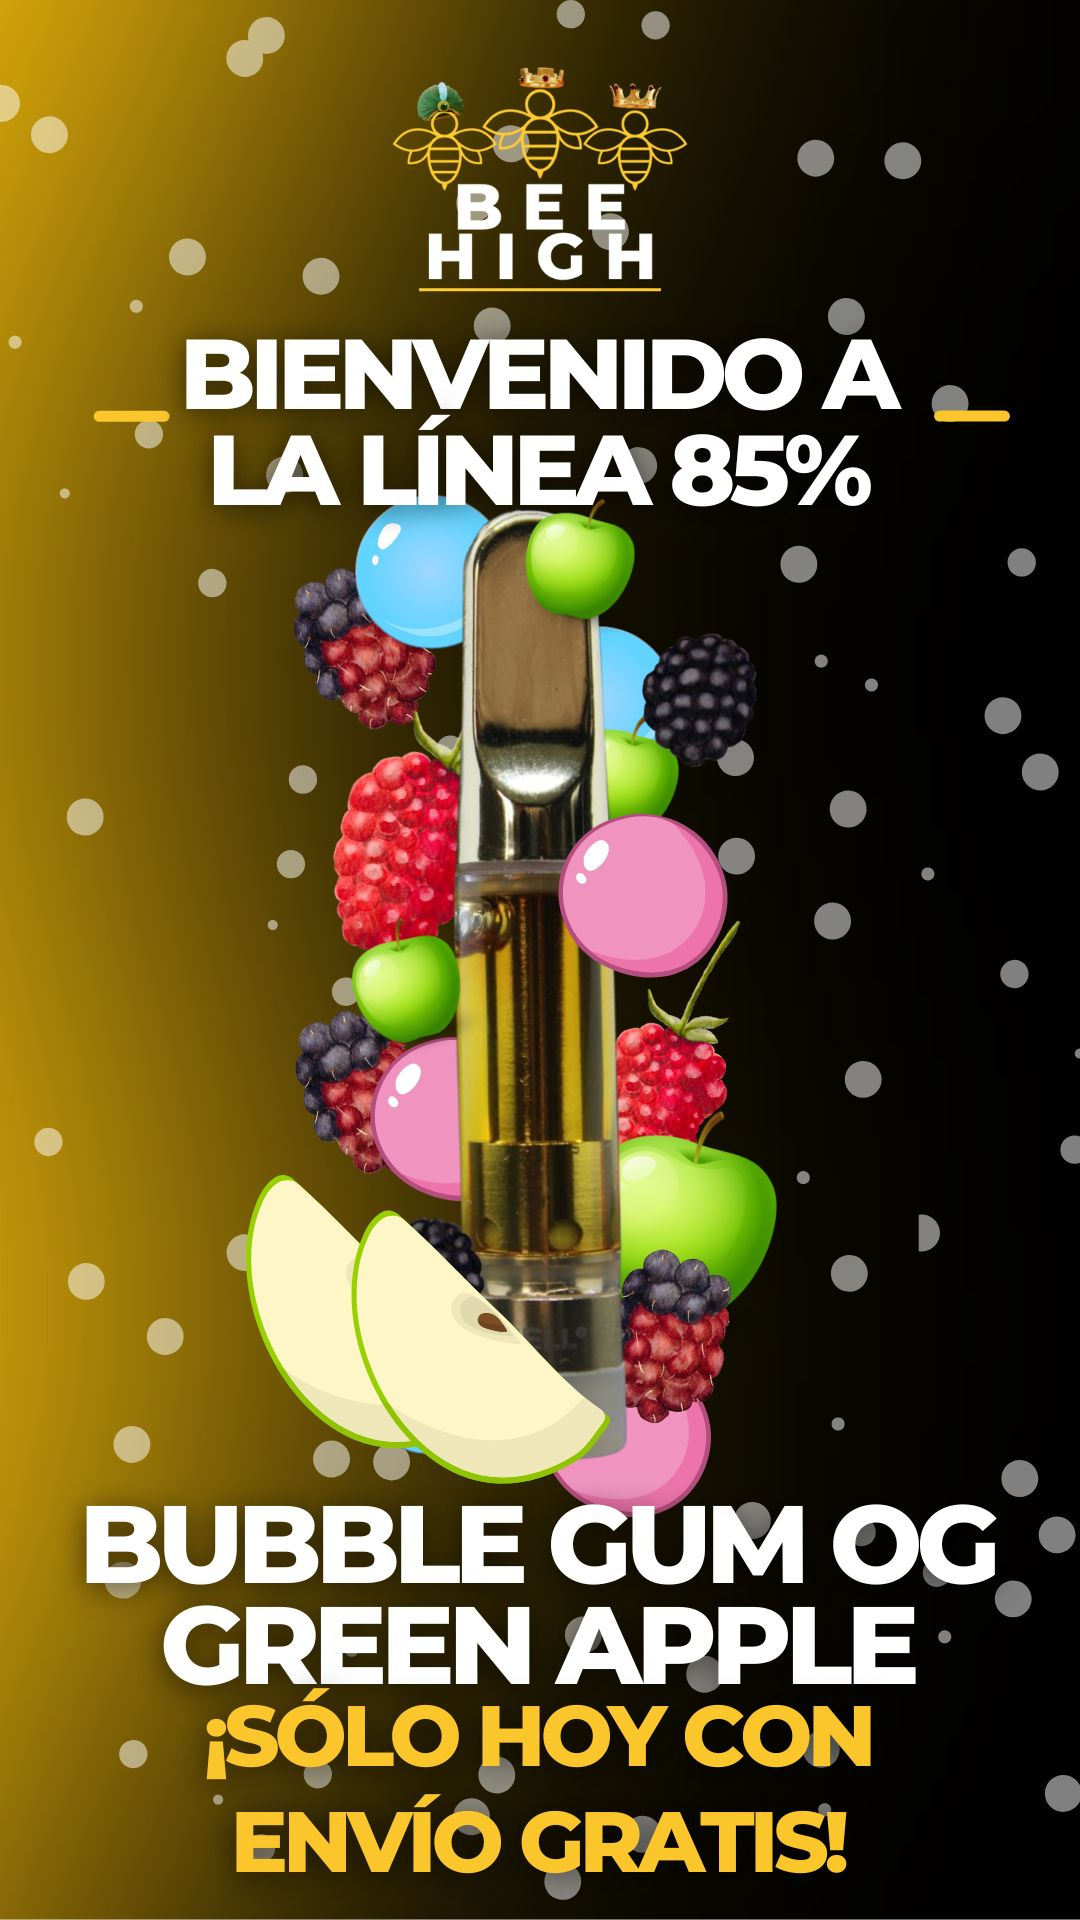
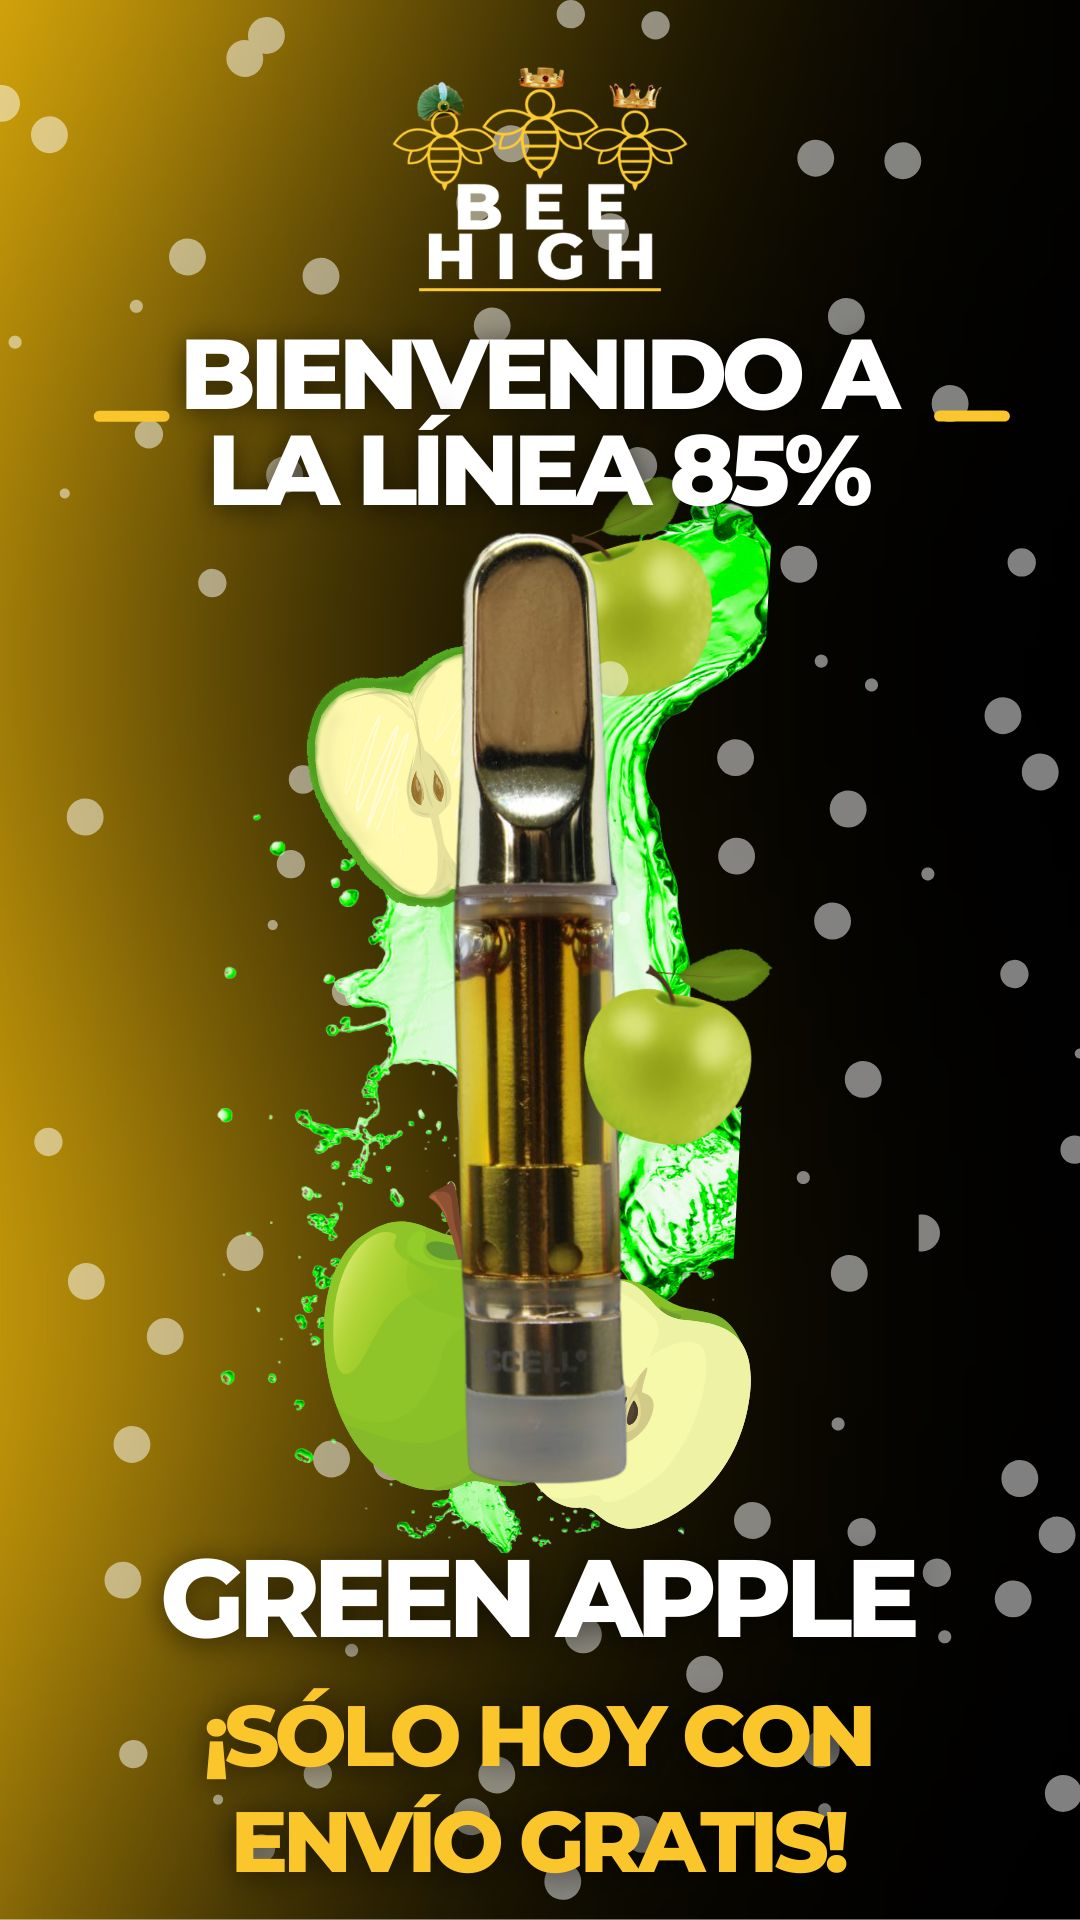
add promos

Changed region(s): [[0.0611, 0.25, 0.9167, 0.9062], [0.2444, 0.4375, 0.275, 0.4688]]

diff --git a/home.html b/home.html
@@ -81,6 +81,13 @@
                     <img src="/media/BUBBLEGUM.jpg" alt="Promo1" class="imagenPromo"> <!--dejar esta promo siempre-->
                 </div>
             </article>
+
+            
+            <article class="slide">
+                <div class="infoProducto">
+                    <img src="/media/greenapple.jpg" alt="Promo1" class="imagenPromo"> <!--dejar esta promo siempre-->
+                </div>
+            </article>
            
             <article class="slide">
                 <div class="infoProducto">
